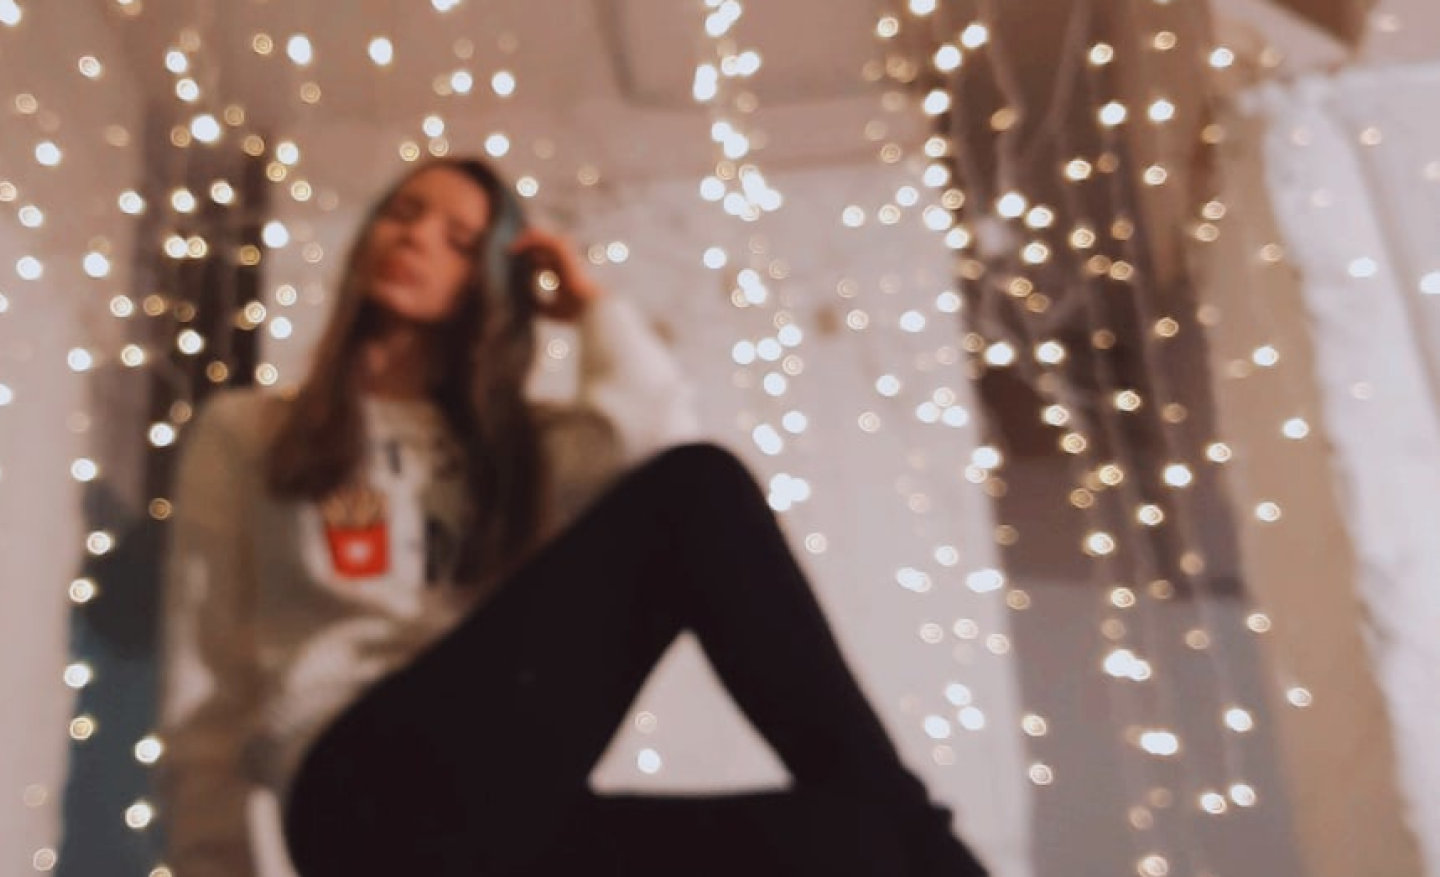
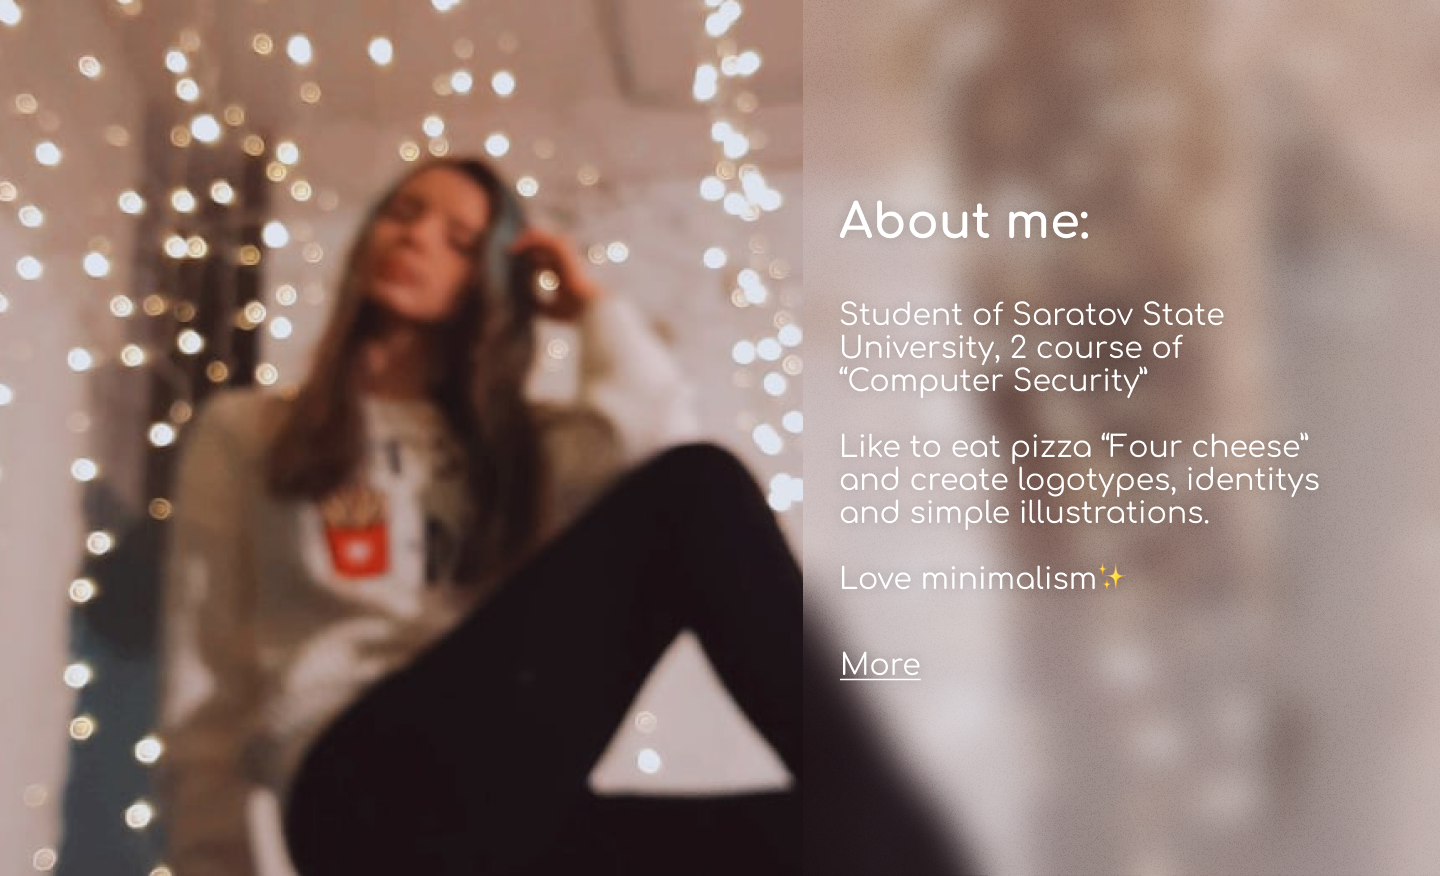
Add files via upload

Changed region(s): [[0.5312, 0.0, 1.0, 1.0]]

diff --git a/index.html b/index.html
@@ -21,15 +21,25 @@
             </div>
         </div>
         <div class="AboutMe">
-            <p>About me:</p>
-            <span>
-                Studdent of Saratov State University, 2 course
-                of "Computer Security"<br><br>
-                Like to eat piza "Four cheese"
-                and create logotypes, identitys and easy illustrations.
-                <br><br>
-                Love minimalism✨
-            </span>
+            <img src="img/Valeria.png">
+        </div>
+        <div class="Projects">
+            <p>My Projects</p>
+        </div>
+        <div class="imgs">
+            <img src="img/CSIT.png">
+            <img src="img/GDSC.png">
+            <img src="img/DentalCenter.png">
+            <img src="img/Boho.png">
+            <img src="img/LoyalMed.png">
+            <img src="img/Jedi.png">
+        </div>
+        <div class="footer">
+            <p>Let's go work together!</p>
+            <div class="footer-bottom">
+            <a href="tg.com"><img src="img/tg.svg"></a>
+            <a href="https://vk.com/smetanushk"><img src="img/vk.svg"></a>
+            <a href="mailto:valeria.zevakina@yandex.ru">valeria.zevakina@yandex.ru</a>
         </div>
     </body>
 </html>

diff --git a/css/styles.css b/css/styles.css
@@ -5,9 +5,6 @@ body {
     background-color: #171717;
     margin: 0;
 }
-.header {
-
-}
 .head-header {
     font-size: 30px;
     font-weight: medium;
@@ -34,21 +31,39 @@ body {
     min-width: 700px;
     max-width: 1440px;
     height: 876.12px;
-    background-image: url(../img/Valeria.png);
-    background-color: #171717;
     margin-left: auto;
     margin-right: auto;
 }
-.AboutMe > p {
-    text-align: end;
-    transform: translate(0, 52px);
-    font-weight: 700;
+.Projects {
+    text-align: center;
     font-size: 48px;
-}
-.AboutMe > span {
-    max-width: 506px;
     font-weight: 400;
+    height: 254px;
+    transform: translate(0, 25%);
+}
+.imgs {
+    min-width: 700px;
+    max-width: 1440px;
+    margin-left: auto;
+    margin-right: auto;
+}
+.footer {
+    transform: translate(0, 30%);
+}
+.footer > p {
+    font-size: 48px;
+    font-weight: 400;
+    text-align: center;
+}
+.footer-bottom {
     font-size: 30px;
-    justify-content: end;
-    transform: translate(0, 152px);
-} 
+    font-weight: medium;
+    display: flex;
+    justify-content: center;
+    height: 540px;
+}
+.footer-bottom > a {
+    margin-left: 50px;
+    color: #ffffff;
+    text-decoration: none;
+}
